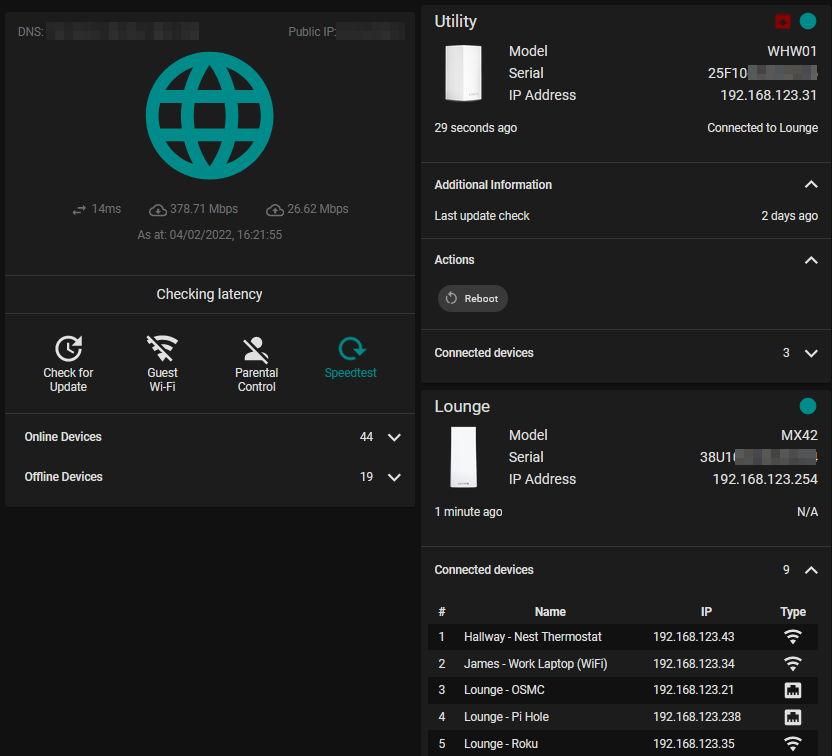
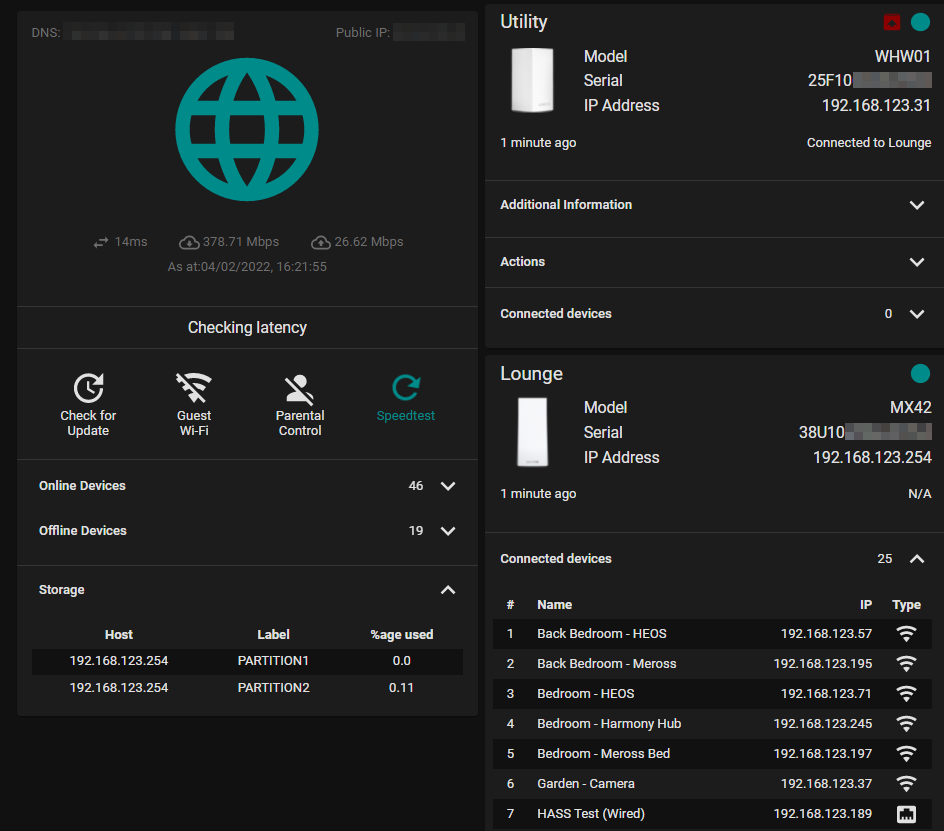
Update YAML view and images to include storage

diff --git a/README.md b/README.md
@@ -3256,6 +3256,7 @@ To create this view a number of custom cards have been used.  These are: -
   ```yaml
   - title: Velop
     path: velop
+    badges: []
     cards:
       - type: custom:button-card
         color_type: blank-card
@@ -3470,7 +3471,6 @@ To create this view a number of custom cards have been used.  These are: -
               - type: section
               - type: custom:fold-entity-row
                 padding: 0
-                clickable: true
                 head:
                   type: custom:template-entity-row
                   entity: sensor.velop_mesh_online_devices
@@ -3509,7 +3509,7 @@ To create this view a number of custom cards have been used.  These are: -
                       state_attr('sensor.velop_mesh_online_devices', 'devices')
                       %} | # | Name | IP | Type |
 
-                      |:---:|---|---|:---:| {%- for device in devices -%}
+                      |:---:|:---|---:|:---:| {%- for device in devices -%}
                         {% set idx = loop.index %}
                         {%- for device_name, device_details in device.items() -%}
                           {%- set device_ip = device_details.keys() | list | first -%}
@@ -3530,7 +3530,6 @@ To create this view a number of custom cards have been used.  These are: -
                       {%- endfor %}
               - type: custom:fold-entity-row
                 padding: 0
-                clickable: true
                 head:
                   type: custom:template-entity-row
                   entity: sensor.velop_mesh_offline_devices
@@ -3571,12 +3570,54 @@ To create this view a number of custom cards have been used.  These are: -
 
                       | # | Name |
 
-                      |:---:|---|
+                      |:---:|:---|
 
                       {% for device in devices %} {{ "| {} | {}
                       |".format(loop.index, device) }}
 
                       {% endfor %}
+              - type: conditional
+                conditions:
+                  - entity: sensor.velop_mesh_available_storage
+                    state_not: '0'
+                  - entity: sensor.velop_mesh_available_storage
+                    state_not: unavailable
+                row:
+                  type: custom:fold-entity-row
+                  padding: 0
+                  head:
+                    type: section
+                    label: Storage
+                  entities:
+                    - type: custom:hui-element
+                      card_type: markdown
+                      card_mod:
+                        style:
+                          .: |
+                            ha-card { border-radius: 0px; box-shadow: none; }
+                            ha-markdown { padding: 16px 0px 0px !important; }
+                          ha-markdown$: >
+                            table { width: 100%; border-collapse: separate;
+                            border-spacing: 0px; }
+
+                            tbody tr:nth-child(2n+1) { background-color:
+                            var(--table-row-background-color); }
+
+                            thead tr th, tbody tr td { padding: 4px 10px; }
+                      content: >
+                        {% set partitions =
+                        state_attr('sensor.velop_mesh_available_storage',
+                        'partitions') %}
+
+                        | Host | Label | %age used
+
+                        |:---:|:---:|:---:|
+
+                        {% for partition in partitions %} {{ "| {} | {} | {}
+                        |".format(partition.ip, partition.label,
+                        partition.used_percent) }}
+
+                        {% endfor %}
       - type: custom:auto-entities
         card:
           type: vertical-stack
@@ -3622,7 +3663,7 @@ To create this view a number of custom cards have been used.  These are: -
                     (entity_id) => {
                       var ret = `
                     | # | Name | IP | Type |
-                    |:---:|---|---|:---:|
+                    |:---:|:---|---:|:---:|
                     `
                       if (states[entity_id].attributes.devices) {
                         states[entity_id].attributes.devices.forEach((device, idx) => {
